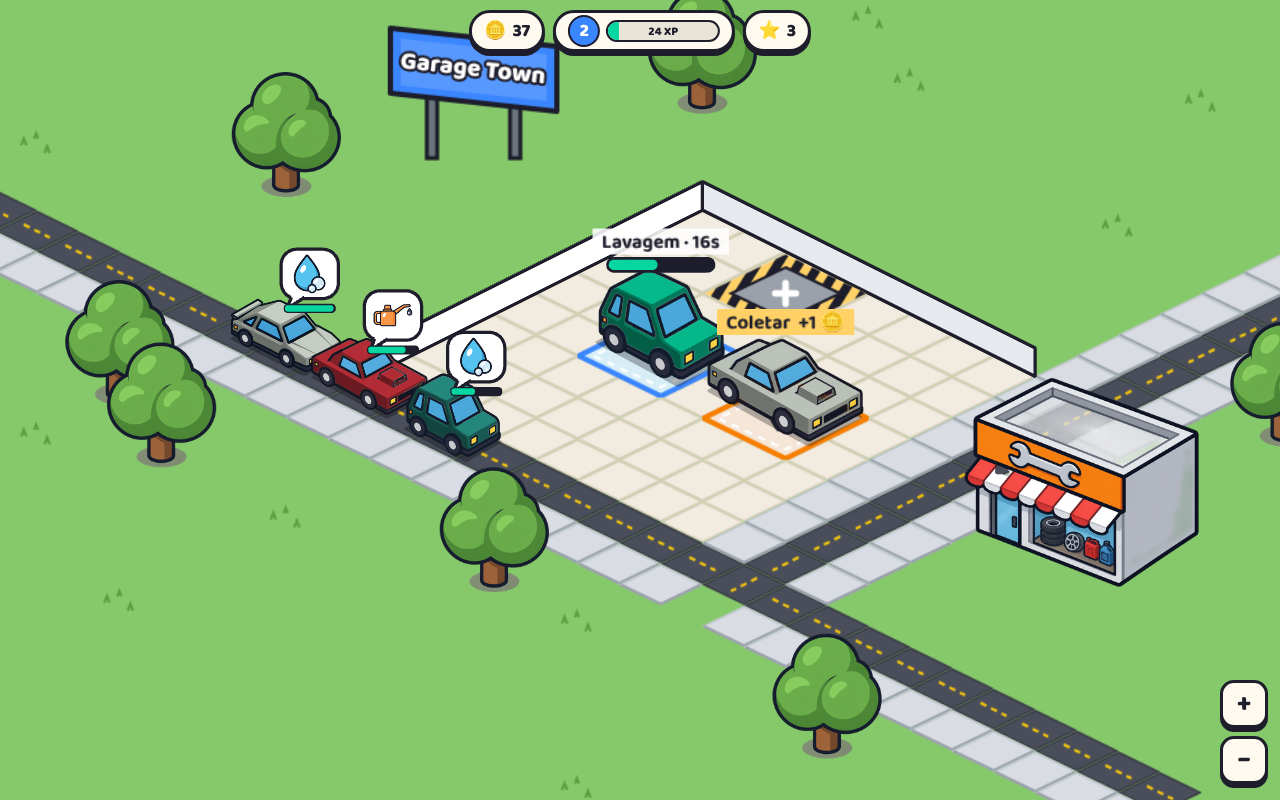
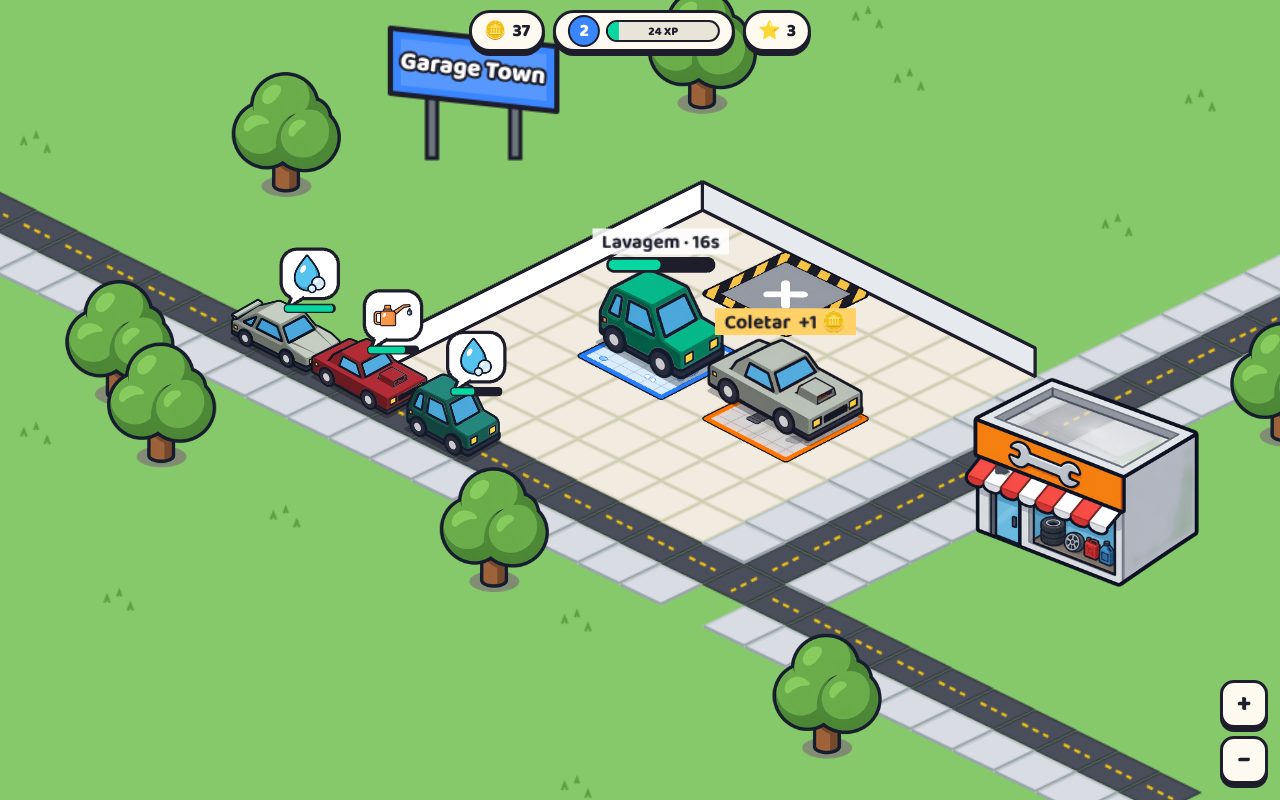
art: AI-generated bay pads and build slot, fitted to the 2:1 iso diamond
Claude-Session: https://claude.ai/code/session_01TYep6my4PBxgSJHqj9FDLV

Changed region(s): [[0.5312, 0.3125, 0.6875, 0.4375], [0.4375, 0.4375, 0.6562, 0.5938]]

diff --git a/apps/client/src/scenes/GarageScene.ts b/apps/client/src/scenes/GarageScene.ts
@@ -74,12 +74,11 @@ export class GarageScene extends Phaser.Scene {
 
   preload() {
     for (const t of ['floor', 'street', 'sidewalk', 'grass']) this.load.svg(t, `tiles/${t}.svg`);
-    for (const o of ['build_slot', 'billboard']) this.load.svg(o, `objects/${o}.svg`);
+    this.load.svg('billboard', 'objects/billboard.svg');
     // AI-generated art ships as 2x PNGs (drawn at scale 0.5); see art/spritecook-assets.json
-    for (const o of ['tree', 'shop']) this.load.image(o, `objects/${o}.png`);
+    for (const o of ['tree', 'shop', 'build_slot', 'bay_wash', 'bay_mechanic'])
+      this.load.image(o, `objects/${o}.png`);
     for (const j of this.content.jobs) this.load.image(`icon_${j.icon}`, `icons/${j.icon}.png`);
-    this.load.svg('bay_wash', 'objects/bay_wash.svg');
-    this.load.svg('bay_mechanic', 'objects/bay_mechanic.svg');
     for (const car of this.content.cars) {
       for (const layer of ['shadow', 'body', 'details']) {
         this.load.image(`${car.sprite}_${layer}`, `cars/${car.sprite}/${layer}.png`);
@@ -265,7 +264,11 @@ export class GarageScene extends Phaser.Scene {
     const jobIcon = (k: string) => this.content.jobs.find((j) => j.key === k)?.icon ?? 'wash';
 
     const slotAt = isoToScreen(BUILD_SLOT.x, BUILD_SLOT.y, ORIGIN);
-    const slot = this.add.image(slotAt.x, slotAt.y, 'build_slot').setOrigin(0.5, 0).setDepth(-500);
+    const slot = this.add
+      .image(slotAt.x, slotAt.y, 'build_slot')
+      .setOrigin(0.5, 0)
+      .setScale(0.5)
+      .setDepth(-500);
     slot.setInteractive({ useHandCursor: true });
     slot.on('pointerup', () => !this.isDragging() && this.events.emit('slot:tap'));
     this.dynamic.add(slot);
@@ -277,6 +280,7 @@ export class GarageScene extends Phaser.Scene {
       const padImg = this.add
         .image(pad.x, pad.y, `bay_${bay.type}`)
         .setOrigin(0.5, 0)
+        .setScale(0.5)
         .setDepth(-500)
         .setInteractive({ useHandCursor: true });
       padImg.on('pointerup', () => !this.isDragging() && this.events.emit('bay:tap', bay.id));

diff --git a/tools/fit_iso_pad.py b/tools/fit_iso_pad.py
@@ -1,0 +1,41 @@
+"""Warps an AI-generated isometric floor pad so its top face matches the game's 2:1 diamond.
+
+Detects the pad's top, left and right corners from the alpha channel and applies an affine
+transform onto a W x W/2 diamond (the slab edge, if any, stays below it).
+
+Usage: python3 -I tools/fit_iso_pad.py <in.png> <out.png> [width=256]
+"""
+import sys
+
+from PIL import Image
+
+src, dst = sys.argv[1], sys.argv[2]
+W = int(sys.argv[3]) if len(sys.argv) > 3 else 256
+H = W // 2
+im = Image.open(src).convert('RGBA')
+im = im.crop(im.getbbox())
+a = im.getchannel('A').load()
+w, h = im.size
+pts = [(x, y) for y in range(h) for x in range(w) if a[x, y] > 128]
+top = min(pts, key=lambda p: (p[1], abs(p[0] - w / 2)))
+left = min(pts, key=lambda p: (p[0], p[1]))
+right = max(pts, key=lambda p: (p[0], -p[1]))
+# target: top -> (W/2, 0), left -> (0, H/2), right -> (W, H/2); solve inverse affine (dst -> src)
+(x1, y1), (x2, y2), (x3, y3) = (W / 2, 0), (0, H / 2), (W, H / 2)
+(u1, v1), (u2, v2), (u3, v3) = top, left, right
+det = x1 * (y2 - y3) - y1 * (x2 - x3) + (x2 * y3 - x3 * y2)
+
+
+def solve(t1, t2, t3):
+    a_ = (t1 * (y2 - y3) - y1 * (t2 - t3) + (t2 * y3 - t3 * y2)) / det
+    b_ = (x1 * (t2 - t3) - t1 * (x2 - x3) + (x2 * t3 - x3 * t2)) / det
+    c_ = (x1 * (y2 * t3 - y3 * t2) - y1 * (x2 * t3 - x3 * t2) + t1 * (x2 * y3 - x3 * y2)) / det
+    return a_, b_, c_
+
+
+coeffs = (*solve(u1, u2, u3), *solve(v1, v2, v3))
+out_h = int(H * 1.25)  # room for a slab edge below the diamond
+out = im.transform((W, out_h), Image.AFFINE, coeffs, resample=Image.BICUBIC)
+out = out.crop((0, 0, W, out.getbbox()[3] if out.getbbox() else out_h))
+out.save(dst)
+print('ok', out.size, 'corners', top, left, right)

diff --git a/tools/gen_art.py b/tools/gen_art.py
@@ -203,7 +203,7 @@ def world():
         '<path d="M64 24 v16 M56 32 h16" stroke="#ffffff" stroke-width="5" stroke-linecap="round"/>'
         '</svg>\n'
     )
-    open(os.path.join(o, 'build_slot.svg'), 'w').write(slot)
+    _ = slot  # superseded by art/src/objects/build_slot.png
     # round-canopy tree (canvas 64x96, base at bottom centre)
     tree = (
         '<svg xmlns="http://www.w3.org/2000/svg" width="64" height="96" viewBox="0 0 64 96">'
@@ -246,7 +246,6 @@ def world():
 if __name__ == '__main__':
     # Cars are now AI-generated (tools/split_ai_car.py); car() is kept for regenerating placeholders.
     tiles()  # street (floor is replaced by world())
-    bays()
-    # icons(), tree and shop are now AI-generated PNGs (see art/spritecook-assets.json)
+    # bays(), icons(), build slot, tree and shop are now AI-generated PNGs (see art/spritecook-assets.json)
     world()
     print('ok')
